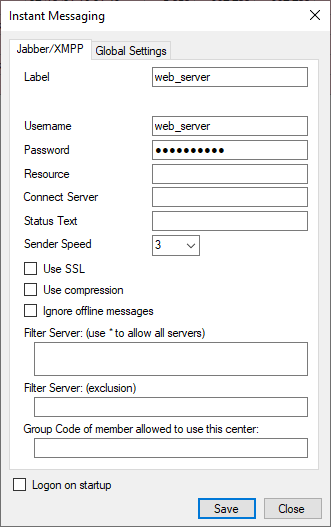
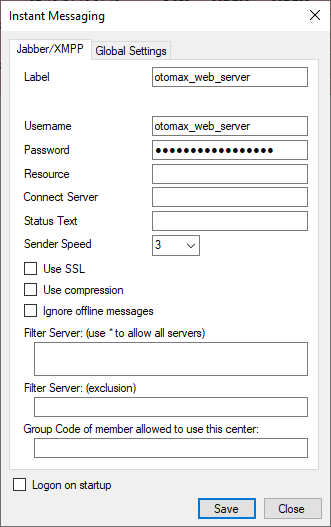
update docs

Changed region(s): [[0.4532, 0.2125, 0.8157, 0.3036], [0.4532, 0.1214, 0.7553, 0.1518]]

diff --git a/docs/otomax/request-inbox.md b/docs/otomax/request-inbox.md
@@ -8,7 +8,7 @@ GET /api/otomax/v1/inbox
 
 ## [Steps]()
 
-Tambahkan label `web_server` di im center untuk menggunakan request inbox
+Tambahkan label `otomax_web_server` di im center untuk menggunakan request inbox
 
 <p>
     <figure>
